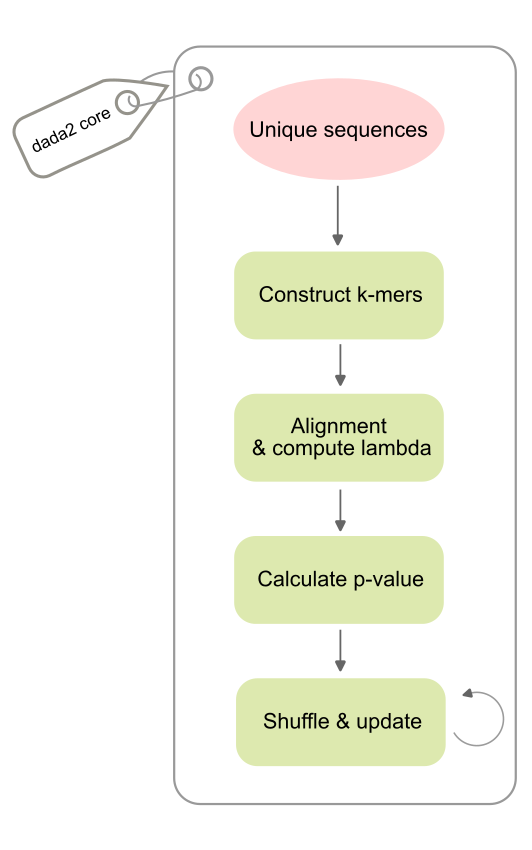
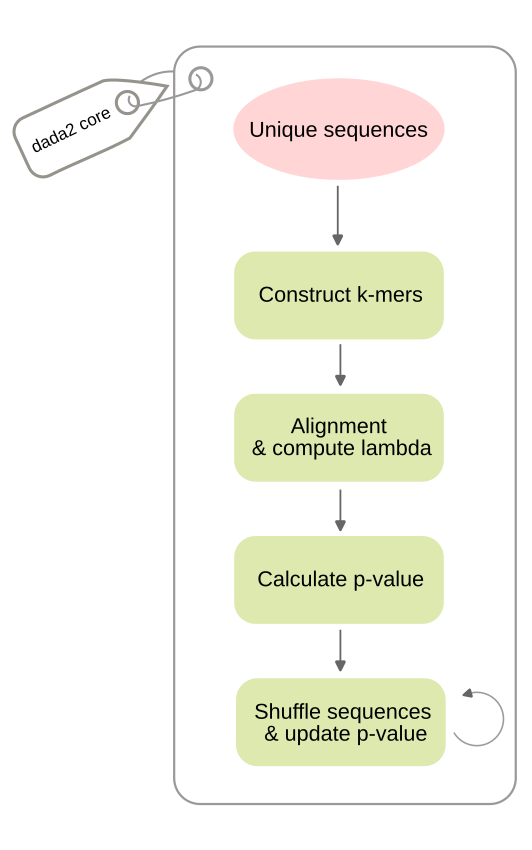
update: revise shuffle and update step in dada2 core

diff --git a/docs/dada2.md b/docs/dada2.md
@@ -65,16 +65,16 @@ The values of `trimLeft` and `truncLen` are inherited from the command. Criteria
 :align: center
 ```
 
-The DADA2 core workflow begins by processing unique sequences obtained through dereplication, maintaining their respective abundance counts. To optimize the alignment step, the algorithm **constructs k-mers** and compute distance of pair of sequences to screen out unrelated pairs [@sunESPRITEstimatingSpecies2009]. 
+The DADA2 core algorithm (named "The divisive partitioning algorithm") [@callahanDADA2HighresolutionSample2016] begins by processing unique sequences obtained through dereplication, maintaining their respective abundance counts. To optimize the alignment step, the algorithm **constructs k-mers** and compute distance of pair of sequences to screen out unrelated pairs [@sunESPRITEstimatingSpecies2009]. 
 
-During the **Alignment & Compute $\lambda$** phase, this k-mer distance acts as a pre-filter before the banded Needleman-Wunsch algorithm [@gibratShortNoteDynamic2018] performs ends-free global pairwise alignments. From these alignments, the error rate ($\lambda_{ji}$) is calculated as the joint probability of the observed sequence $i$ originating from the partition center sequence $j$ over the total sequence length $L$. This transition probability is determined by the specific nucleotide substitution and the associated quality score $q_i$ at each position $l$ [@callahanDADA2HighresolutionSample2016].
+During the **Alignment & Compute $\lambda$** phase, this k-mer distance acts as a pre-filter before the banded Needleman-Wunsch algorithm [@gibratShortNoteDynamic2018] performs ends-free global pairwise alignments. From these alignments, the error rate ($\lambda_{ji}$) is calculated as the joint probability of the observed sequence $i$ originating from the partition center sequence $j$ over the total sequence length $L$. This transition probability is determined by the specific nucleotide substitution and the associated quality score $q_i$ at each position $l$.
 
 $$
 \lambda_{ij} = \prod^{L}_{l=0} p(j(l) \rightarrow i(l), q_i(l))
 $$
 
 
-Under the assumption that sequencing errors occur independently across reads, where any read from a true sequence $j$ can potentially be misread as sequence $i$. The abundance $p$-value is calculated as the probability of observing an abundance $a_i$ or greater, given the expected error count $n_j\lambda_{ji}$. This value is computed using a Poisson distribution, normalized by the probability of observing sequence $i$ at least once [@callahanDADA2HighresolutionSample2016].
+Under the assumption that sequencing errors occur independently across reads, where any read from a true sequence $j$ can potentially be misread as sequence $i$. **The abundance $p$-value is calculated** as the probability of observing an abundance $a_i$ or greater, given the expected error count $n_j\lambda_{ji}$. This value is computed using a Poisson distribution, normalized by the probability of observing sequence $i$ at least once.
 
 $$
 p_A(j \rightarrow i) =  \frac{1}{1-\rho_{\text{pois}}(n_j\lambda_{ji},0)} \sum_{a=a_j}^{\infty}\rho_{\text{pois}}(n_j\lambda_{ji},a_i)
@@ -82,7 +82,9 @@ $$
 
 A lower $p$-value indicates a lower probability that the observed abundance of sequence $i$ can be explained by stochastic sequencing errors originating from sequence $j$. Therefore, a small $p$-value provides strong evidence that sequence $i$ is a distinct biological variant.
 
-Finally, the process enters a **Shuffle & Update** loop, where sequences are competitively reassigned to the most probable cluster centers, and the error model is iteratively refined until the denoising process reaches convergence.
+Once the $p$-values are computed, at the **Shuffle sequences and update $p$-value** step, any sequence with a $p$-value below the threshold ($\Omega_A$) triggers the formation of a new partition with that sequence as its center. 
+
+The algorithm then enters an iterative refinement loop: $p$-values for all unique sequences are re-calculated against the new set of centers, and sequences are reshuffled (reassigned) to the partitions for which they have the highest likelihood (most probable origin). This cycle of partitioning and reshuffling continues until the composition of the partitions remains stable and none of p-value violates the threshold.
 
 (learning-error-rates)=
 ### Learning Error Rates
